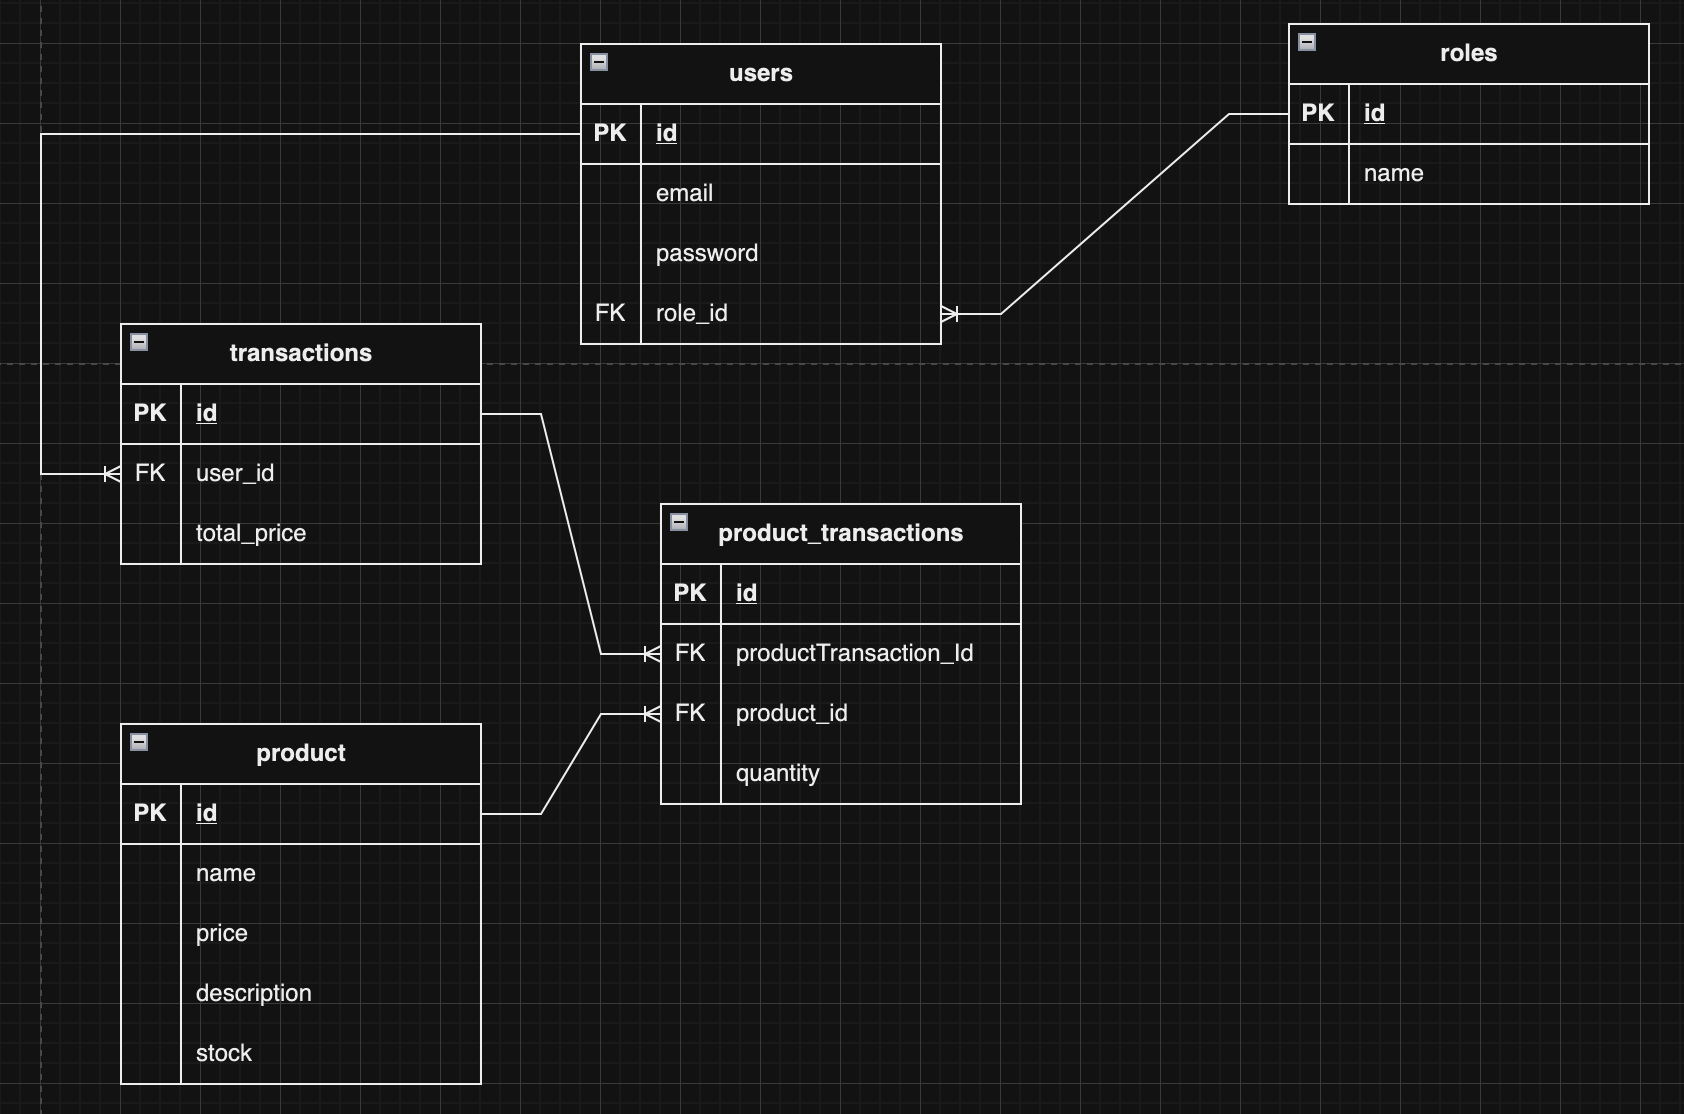
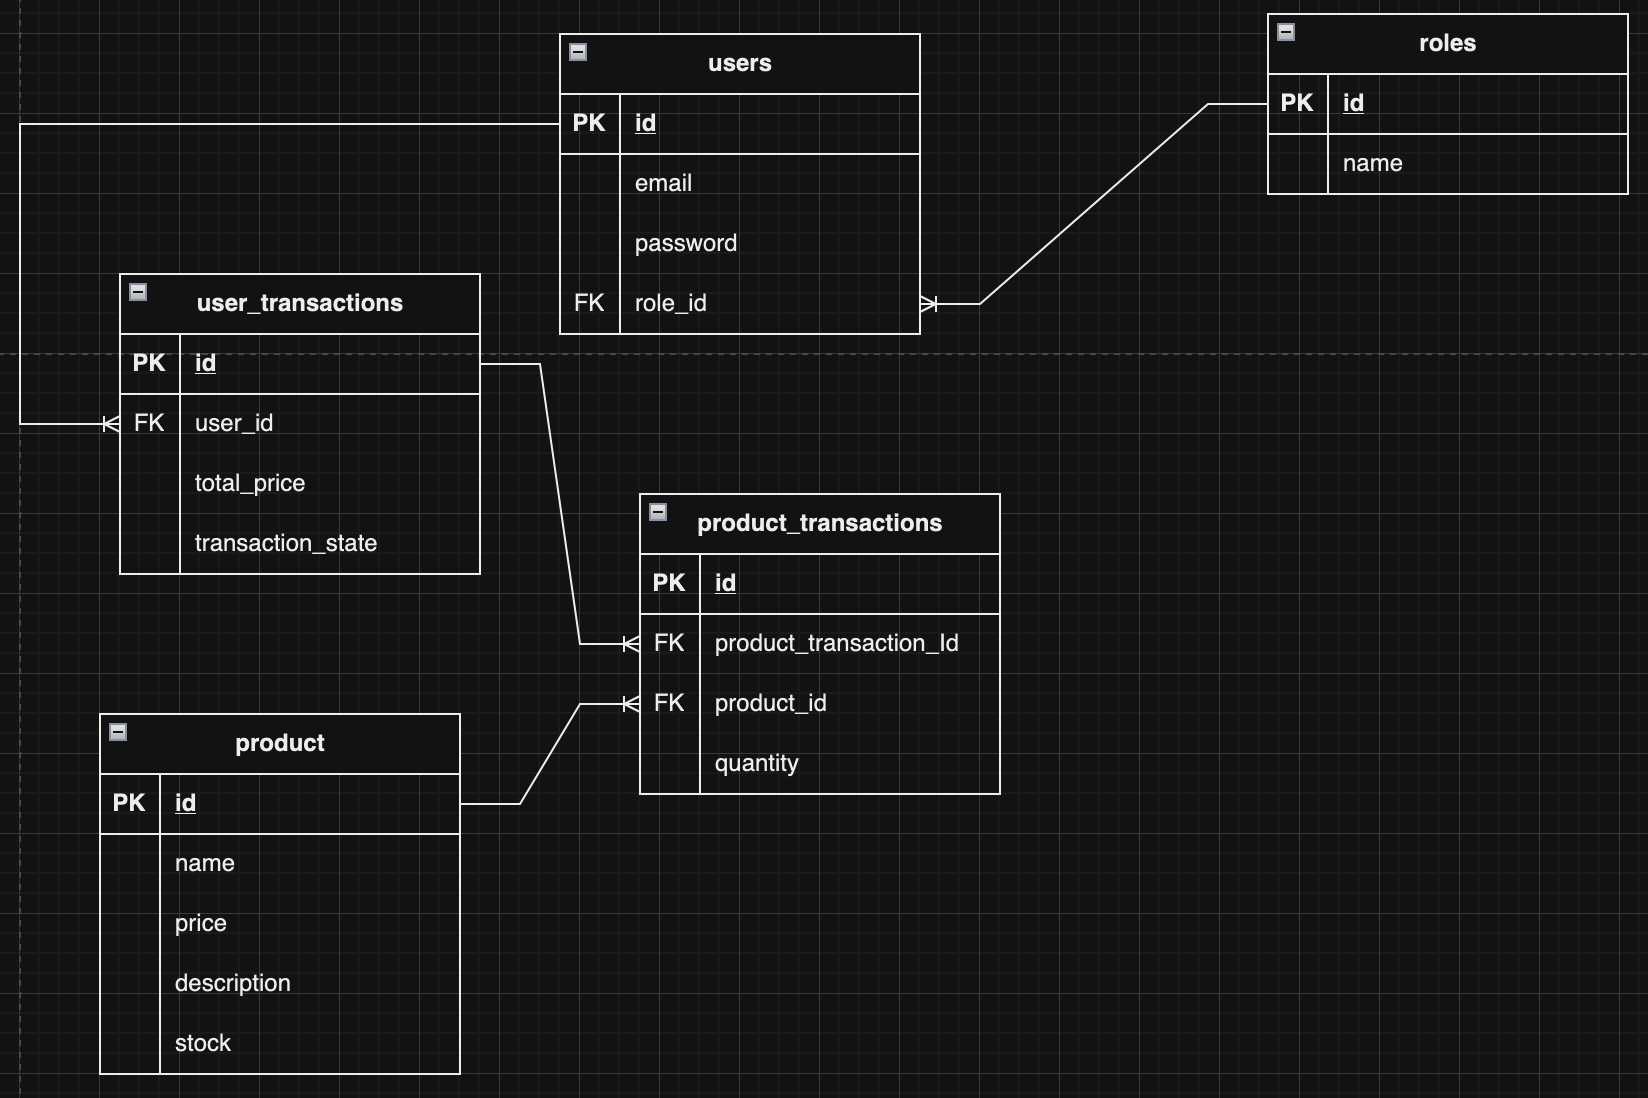
chore: added all entities

diff --git a/src/user-transactions/user-transactions.controller.ts b/src/user-transactions/user-transactions.controller.ts
@@ -1,0 +1,34 @@
+import { Controller, Get, Post, Body, Patch, Param, Delete } from '@nestjs/common';
+import { UserTransactionsService } from './user-transactions.service';
+import { CreateUserTransactionDto } from './dto/create-user-transaction.dto';
+import { UpdateUserTransactionDto } from './dto/update-user-transaction.dto';
+
+@Controller('user-transactions')
+export class UserTransactionsController {
+  constructor(private readonly userTransactionsService: UserTransactionsService) {}
+
+  @Post()
+  create(@Body() createUserTransactionDto: CreateUserTransactionDto) {
+    return this.userTransactionsService.create(createUserTransactionDto);
+  }
+
+  @Get()
+  findAll() {
+    return this.userTransactionsService.findAll();
+  }
+
+  @Get(':id')
+  findOne(@Param('id') id: string) {
+    return this.userTransactionsService.findOne(+id);
+  }
+
+  @Patch(':id')
+  update(@Param('id') id: string, @Body() updateUserTransactionDto: UpdateUserTransactionDto) {
+    return this.userTransactionsService.update(+id, updateUserTransactionDto);
+  }
+
+  @Delete(':id')
+  remove(@Param('id') id: string) {
+    return this.userTransactionsService.remove(+id);
+  }
+}

diff --git a/src/app.module.ts b/src/app.module.ts
@@ -1,18 +1,17 @@
 import { Module } from '@nestjs/common';
 import { ProductsModule } from './modules/products/products.module';
 import { UsersModule } from './modules/users/users.module';
-import { TransactionsModule } from './modules/transactions/transactions.module';
 import { RolesModule } from './modules/roles/roles.module';
 import { TypeOrmModule } from '@nestjs/typeorm';
 import { DatabaseConfigService } from './common/config/database.config';
 import { ConfigModule } from '@nestjs/config';
 import { EnvConfig } from './common/config/env.config';
+import { UserTransactionsModule } from './user-transactions/user-transactions.module';
 
 @Module({
   imports: [
     RolesModule,
     UsersModule,
-    TransactionsModule,
     ProductsModule,
     ConfigModule.forRoot({
       envFilePath: '.env',
@@ -20,6 +19,7 @@ import { EnvConfig } from './common/config/env.config';
       load: [EnvConfig],
     }),
     TypeOrmModule.forRootAsync({ useClass: DatabaseConfigService }),
+    UserTransactionsModule,
   ],
   controllers: [],
   providers: [],

diff --git a/src/modules/products/entities/product.entity.ts b/src/modules/products/entities/product.entity.ts
@@ -1,7 +1,26 @@
-import { Entity, PrimaryGeneratedColumn } from 'typeorm';
+import { UserTransactions } from 'src/user-transactions/entities/user-transaction.entity';
+import { Column, Entity, ManyToMany, PrimaryGeneratedColumn } from 'typeorm';
 
 @Entity()
 export class Product {
-  @PrimaryGeneratedColumn({ type: 'number' })
+  @PrimaryGeneratedColumn({ type: 'integer' })
   id: number;
+
+  @Column({ type: 'varchar', nullable: false, length: 100 })
+  name: string;
+
+  @Column({ type: 'decimal', nullable: false })
+  price: number;
+
+  @Column({ type: 'text', nullable: true })
+  description: string;
+
+  @Column({ type: 'integer', nullable: false })
+  stock: number;
+
+  @ManyToMany(
+    () => UserTransactions,
+    (userTransaction) => userTransaction.products,
+  )
+  userTransactions: UserTransactions[];
 }

diff --git a/src/user-transactions/user-transactions.service.ts b/src/user-transactions/user-transactions.service.ts
@@ -1,0 +1,26 @@
+import { Injectable } from '@nestjs/common';
+import { CreateUserTransactionDto } from './dto/create-user-transaction.dto';
+import { UpdateUserTransactionDto } from './dto/update-user-transaction.dto';
+
+@Injectable()
+export class UserTransactionsService {
+  create(createUserTransactionDto: CreateUserTransactionDto) {
+    return 'This action adds a new userTransaction';
+  }
+
+  findAll() {
+    return `This action returns all userTransactions`;
+  }
+
+  findOne(id: number) {
+    return `This action returns a #${id} userTransaction`;
+  }
+
+  update(id: number, updateUserTransactionDto: UpdateUserTransactionDto) {
+    return `This action updates a #${id} userTransaction`;
+  }
+
+  remove(id: number) {
+    return `This action removes a #${id} userTransaction`;
+  }
+}

diff --git a/src/modules/users/entities/user.entity.ts b/src/modules/users/entities/user.entity.ts
@@ -1,1 +1,27 @@
-export class User {}
+import { Role } from 'src/modules/roles/roles.entity';
+import { UserTransactions } from 'src/user-transactions/entities/user-transaction.entity';
+import {
+  Column,
+  Entity,
+  ManyToOne,
+  OneToMany,
+  PrimaryGeneratedColumn,
+} from 'typeorm';
+
+@Entity('users')
+export class User {
+  @PrimaryGeneratedColumn()
+  id: number;
+
+  @Column({ type: 'varchar', nullable: false, length: 255 })
+  email: string;
+
+  @Column({ type: 'varchar', nullable: false, length: 30 })
+  password: string;
+
+  @ManyToOne(() => Role, (role) => role.id)
+  role: Role;
+
+  @OneToMany(() => UserTransactions, (userTransaction) => userTransaction.user)
+  userTransactions: UserTransactions[];
+}

diff --git a/src/user-transactions/user-transactions.controller.spec.ts b/src/user-transactions/user-transactions.controller.spec.ts
@@ -1,0 +1,20 @@
+import { Test, TestingModule } from '@nestjs/testing';
+import { UserTransactionsController } from './user-transactions.controller';
+import { UserTransactionsService } from './user-transactions.service';
+
+describe('UserTransactionsController', () => {
+  let controller: UserTransactionsController;
+
+  beforeEach(async () => {
+    const module: TestingModule = await Test.createTestingModule({
+      controllers: [UserTransactionsController],
+      providers: [UserTransactionsService],
+    }).compile();
+
+    controller = module.get<UserTransactionsController>(UserTransactionsController);
+  });
+
+  it('should be defined', () => {
+    expect(controller).toBeDefined();
+  });
+});

diff --git a/src/user-transactions/entities/user-transaction.entity.ts b/src/user-transactions/entities/user-transaction.entity.ts
@@ -1,0 +1,28 @@
+import { Product } from 'src/modules/products/entities/product.entity';
+import { User } from 'src/modules/users/entities/user.entity';
+import {
+  Column,
+  Entity,
+  JoinTable,
+  ManyToMany,
+  ManyToOne,
+  PrimaryGeneratedColumn,
+} from 'typeorm';
+
+@Entity('user_transactions')
+export class UserTransactions {
+  @PrimaryGeneratedColumn()
+  id: number;
+
+  @ManyToOne(() => User, (user) => user.userTransactions)
+  user: User;
+
+  @Column({ name: 'total_price' })
+  totalPrice: number;
+
+  @ManyToMany(() => Product, (product) => product.userTransactions, {
+    cascade: true,
+  })
+  @JoinTable()
+  products: Product[];
+}

diff --git a/src/user-transactions/user-transactions.service.spec.ts b/src/user-transactions/user-transactions.service.spec.ts
@@ -1,0 +1,18 @@
+import { Test, TestingModule } from '@nestjs/testing';
+import { UserTransactionsService } from './user-transactions.service';
+
+describe('UserTransactionsService', () => {
+  let service: UserTransactionsService;
+
+  beforeEach(async () => {
+    const module: TestingModule = await Test.createTestingModule({
+      providers: [UserTransactionsService],
+    }).compile();
+
+    service = module.get<UserTransactionsService>(UserTransactionsService);
+  });
+
+  it('should be defined', () => {
+    expect(service).toBeDefined();
+  });
+});

diff --git a/src/user-transactions/user-transactions.module.ts b/src/user-transactions/user-transactions.module.ts
@@ -1,0 +1,12 @@
+import { Module } from '@nestjs/common';
+import { UserTransactionsService } from './user-transactions.service';
+import { UserTransactionsController } from './user-transactions.controller';
+import { TypeOrmModule } from '@nestjs/typeorm';
+import { UserTransactions } from './entities/user-transaction.entity';
+
+@Module({
+  imports: [TypeOrmModule.forFeature([UserTransactions])],
+  controllers: [UserTransactionsController],
+  providers: [UserTransactionsService],
+})
+export class UserTransactionsModule {}

diff --git a/src/modules/roles/roles.entity.ts b/src/modules/roles/roles.entity.ts
@@ -1,5 +1,6 @@
-import { Column, Entity, PrimaryGeneratedColumn } from 'typeorm';
+import { Column, Entity, OneToMany, PrimaryGeneratedColumn } from 'typeorm';
 import { RolesEnum } from './enums/roles.enum';
+import { User } from '../users/entities/user.entity';
 
 @Entity('roles')
 export class Role {
@@ -7,5 +8,8 @@ export class Role {
   id: number;
 
   @Column({ type: 'enum', enum: RolesEnum })
-  name: string;
+  name: RolesEnum;
+
+  @OneToMany(() => User, (user) => user.role)
+  users: User[];
 }

diff --git a/src/modules/products/products.module.ts b/src/modules/products/products.module.ts
@@ -1,8 +1,11 @@
 import { Module } from '@nestjs/common';
 import { ProductsService } from './products.service';
 import { ProductsController } from './products.controller';
+import { TypeOrmModule } from '@nestjs/typeorm';
+import { Product } from './entities/product.entity';
 
 @Module({
+  imports: [TypeOrmModule.forFeature([Product])],
   controllers: [ProductsController],
   providers: [ProductsService],
 })

diff --git a/src/modules/users/users.module.ts b/src/modules/users/users.module.ts
@@ -1,8 +1,11 @@
 import { Module } from '@nestjs/common';
 import { UsersService } from './users.service';
 import { UsersController } from './users.controller';
+import { TypeOrmModule } from '@nestjs/typeorm';
+import { User } from './entities/user.entity';
 
 @Module({
+  imports: [TypeOrmModule.forFeature([User])],
   controllers: [UsersController],
   providers: [UsersService],
 })
